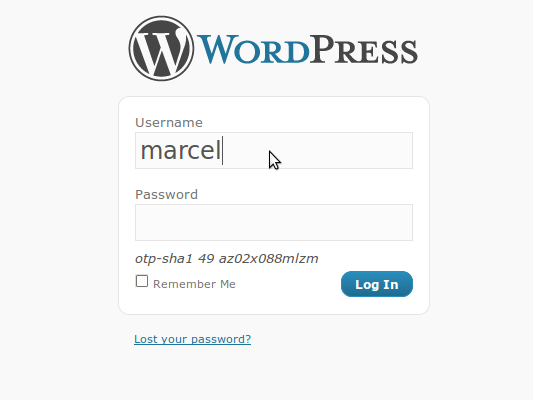
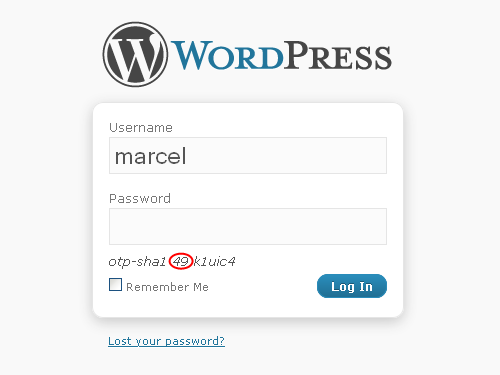
git-svn-id: https://plugins.svn.wordpress.org/one-time-password/trunk@138219 b8457f37-d9ea-0310-8a92-e5e31aec5664

diff --git a/otp.css b/otp.css
@@ -5,6 +5,17 @@
 	font-size: 13px;
 }
 
+#otp_challenge {
+	font-style: italic;
+	color: #555555;
+}
+
+#otp_notice {
+	background-color: red;
+	font-weight: bold;
+	width: 70%;
+}
+
 .otp_message {
 	font-weight: bold;
 	color: red;
@@ -12,12 +23,6 @@
 
 .otp_hint {
 	margin: 0 0 0 10px;
-}
-
-
-.otp_challenge {
-	font-style: italic;
-	color: #555555;
 }
 
 #otp_list {

diff --git a/otp.php b/otp.php
@@ -3,7 +3,7 @@
 Plugin Name: One-Time Password
 Plugin URI: http://blog.bokhorst.biz/2200/computers-en-internet/wordpress-plugin-one-time-password/
 Description: One-Time Password System conforming to <a href="http://tools.ietf.org/html/rfc2289">RFC 2289</a> to protect your weblog in less trustworthy environments, like internet cafés.
-Version: 0.1
+Version: 0.2
 Author: Marcel Bokhorst
 Author URI: http://blog.bokhorst.biz/
 */
@@ -40,6 +40,8 @@ Author URI: http://blog.bokhorst.biz/
 	- ajax new seed
 	- error handling ajax get challenge
 	- ajax error messages (validators)
+	- last used time
+	- translations
 */
 
 #error_reporting(E_ALL);
@@ -57,8 +59,6 @@ if (isset($_GET['otp_user'])) {
 			$otp_class = new otp();
 			echo $otp_class->createChallenge($otp_row->seed, $otp_row->sequence, $otp_row->algorithm);
 		}
-		else
-			echo '';
 	}
 	catch (Exception $e) {
 		echo $e->getMessage();
@@ -68,8 +68,7 @@ if (isset($_GET['otp_user'])) {
 
 // Handle plugin activation
 if (!function_exists('otp_activate')) {
-	function otp_activate()
-	{
+	function otp_activate() {
 		// Create table
 		global $wpdb;
 		$otp_table = $wpdb->prefix . 'otp';
@@ -123,15 +122,15 @@ function otp_login_form() {
 ?>
 	<script type="text/javascript">
 		jQuery(document).ready(function($) {
-			// Create element for challenge
-			$('#user_pass').parent().parent().after($('<p id="otp_challenge" class="otp_challenge">'));
+			// Create element for otp challenge
+			$('#user_pass').parent().parent().after($('<p id="otp_challenge">'));
 
-			// Hide challenge when user changes
+			// Hide otp challenge when username changes
 			$('#user_login').keyup(function() {
 				$('#otp_challenge').hide();
 			});
 
-			// Show challenge when password gets focus
+			// Show otp challenge when password gets focus
 			$('#user_pass').focus(function() {
 				otp_challenge = $('#otp_challenge');
 				otp_challenge.text('<?php _e('Wait'); ?>');
@@ -159,14 +158,13 @@ function otp_login_form() {
 }
 
 // Authenticate using OTP
-function otp_authenticate($user)
-{
+function otp_authenticate($user) {
 	// Get data
 	global $wpdb;
 	$otp_user = $wpdb->escape($_POST['log']);
 	$otp_table = $wpdb->prefix . 'otp';
 	$otp_row = $wpdb->get_row('SELECT seed, algorithm, sequence, hash FROM ' . $otp_table . " WHERE user='" . $otp_user . "'");
-	if ($otp_row != null) {
+	if ($otp_row != null && $otp_row->sequence >= 0) {
 		// Check OTP
 		$otp_class = new otp();
 		$otp_data = $otp_class->initializeOtp($otp_row->hash, $otp_row->seed, $otp_row->sequence, $otp_row->algorithm);
@@ -215,7 +213,7 @@ function otp_options() {
 	$otp_user = $wpdb->escape($current_user->user_login);
 
 	// Output header
-	echo '<div class="wrap" id="content">';
+	echo '<div class="wrap">';
 	echo '<h2>' . __('One-Time Password Administration') . '</h2>';
 
 	// Render generate form
@@ -261,6 +259,8 @@ function otp_options() {
 
 	</table>
 
+	<p><em><?php _e('The current one-time password list will be revoked automatically') ?></em></p>
+	
 	<p class="submit">
 	<input type="submit" class="button-primary" value="<?php _e('Generate') ?>" />
 	</p>
@@ -317,7 +317,7 @@ function otp_options() {
 				"'" . $otp_list[0]['hex_otp'] . "',  " .
 				"now());";
 			$wpdb->query($sql);
-
+			
 			// Render password list
 			echo '<h3>' . __('One-time password list') . '</h3>';
 			echo '<form id="otp_form_print" method="post" action="#">';
@@ -420,6 +420,27 @@ function otp_options() {
 <?php
 }
 
+function otp_admin_notices() {
+	global $wpdb;
+	global $current_user;
+
+	if (strpos($_SERVER['REQUEST_URI'], 'one-time-password') === false) {
+		// Get current user
+		get_currentuserinfo();
+		$otp_user = $wpdb->escape($current_user->user_login);
+
+		// Get current sequence
+		$otp_table = $wpdb->prefix . 'otp';
+		$otp_row = $wpdb->get_row("SELECT sequence FROM " . $otp_table . " WHERE user='" . $otp_user . "'");
+
+		// Check password list
+		if ($otp_row == null || $otp_row->sequence <= 0) {
+			$url = admin_url('options-general.php?page=one-time-password/otp.php');
+			echo '<div id="otp_notice"><p>' . __('One-time password list') . ' <a href="' . $url . '">' . __('should be generated') . '</a></p></div>';
+		}
+	}
+}
+
 // Register activation hook
 if (function_exists('register_activation_hook'))
 	register_activation_hook( __FILE__, 'otp_activate' );
@@ -430,6 +451,7 @@ if (function_exists('add_action')) {
 	add_action('login_head', 'otp_login_head');
 	add_action('login_form', 'otp_login_form');
 	add_action('admin_menu', 'otp_admin_menu');
+	add_action('admin_notices', 'otp_admin_notices');
 }
 
 // Register filters
